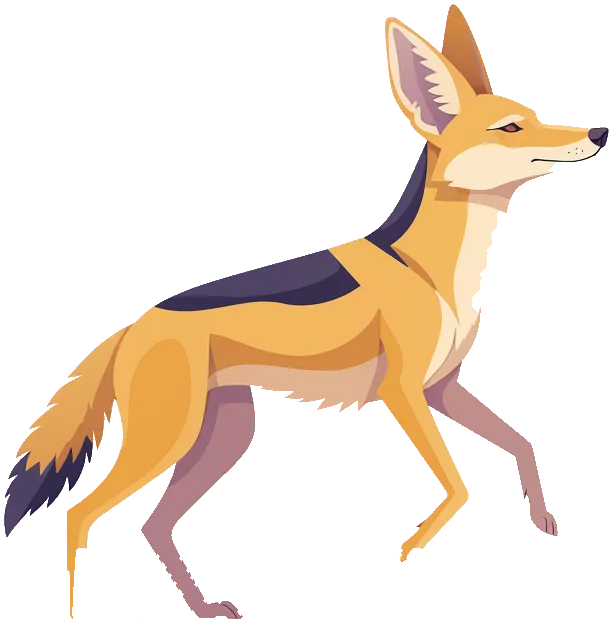
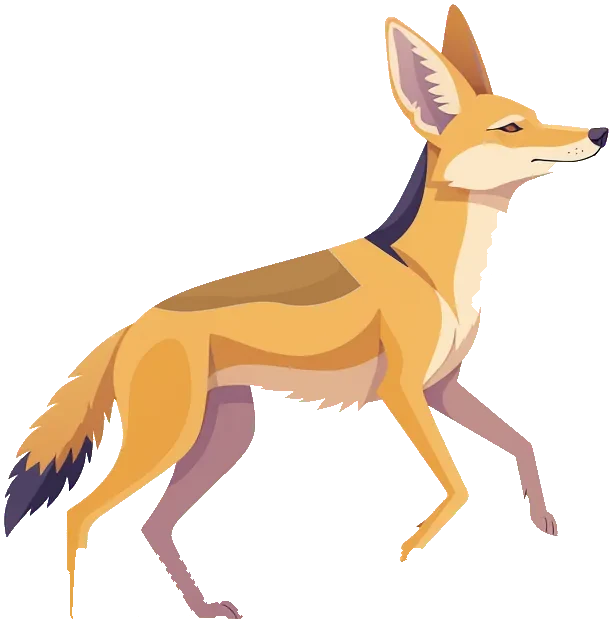
Journey: golden jackals, as in the Holy Land, instead of black-backed

Changed region(s): [[0.248, 0.3965, 0.5889, 0.5185]]

diff --git a/src/journey/canine-rig.js b/src/journey/canine-rig.js
@@ -1,3 +1,3 @@
 // The jackal and the wolf rigged for running (made by docs/firefly/rig-canines.py from their trotting pictures):
 // a body and four legs (0 near hind, 1 far hind, 2 near front, 3 far front), each turning at the hip and the knee.
-var JOURNEY_CANINE_RIG = {"jackal": {"w": 613, "h": 623, "cut": 405, "legs": [{"hip": [161.64638346727898, 405.0], "knee": [92.01374570446735, 507.0], "foot": 618, "front": false, "far": false}, {"hip": [229.60040983606558, 405.0], "knee": [172.80578512396696, 507.0], "foot": 618, "front": false, "far": true}, {"hip": [409.1625615763547, 405.0], "knee": [449.54545454545456, 479.0], "foot": 561, "front": true, "far": false}, {"hip": [462.74585635359114, 405.0], "knee": [527.0, 467.0], "foot": 535, "front": true, "far": true}]}, "wolf": {"w": 601, "h": 632, "cut": 405, "legs": [{"hip": [135.69788918205805, 405.0], "knee": [105.44516129032257, 475.0], "foot": 551, "front": false, "far": false}, {"hip": [200.0491493383743, 405.0], "knee": [142.27004219409284, 505.0], "foot": 614, "front": false, "far": true}, {"hip": [340.3042505592841, 405.0], "knee": [339.780487804878, 511.0], "foot": 627, "front": true, "far": false}, {"hip": [418.86511627906975, 405.0], "knee": [508.5744680851064, 482.0], "foot": 567, "front": true, "far": true}]}};
+var JOURNEY_CANINE_RIG = {"jackal": {"w": 613, "h": 623, "cut": 405, "legs": [{"hip": [161.69610091743118, 405.0], "knee": [92.01374570446735, 507.0], "foot": 618, "front": false, "far": false}, {"hip": [229.65092402464066, 405.0], "knee": [173.0326530612245, 507.0], "foot": 618, "front": false, "far": true}, {"hip": [409.1625615763547, 405.0], "knee": [449.54545454545456, 479.0], "foot": 561, "front": true, "far": false}, {"hip": [462.74585635359114, 405.0], "knee": [527.2109375, 467.0], "foot": 535, "front": true, "far": true}]}, "wolf": {"w": 601, "h": 632, "cut": 405, "legs": [{"hip": [135.69788918205805, 405.0], "knee": [105.44516129032257, 475.0], "foot": 551, "front": false, "far": false}, {"hip": [200.0491493383743, 405.0], "knee": [142.27004219409284, 505.0], "foot": 614, "front": false, "far": true}, {"hip": [340.3042505592841, 405.0], "knee": [339.780487804878, 511.0], "foot": 627, "front": true, "far": false}, {"hip": [418.86511627906975, 405.0], "knee": [508.5744680851064, 482.0], "foot": 567, "front": true, "far": true}]}};

diff --git a/src/journey/index.html b/src/journey/index.html
@@ -460,16 +460,16 @@ dialog.journal[open] {animation:j-rise .55s cubic-bezier(.2,.9,.3,1.2);}
 	</footer>
 
 	<script src="/assets/js/site.js" defer></script>
-	<script src="/journey/camels.js?v=202610251906" defer></script>
-	<script src="/journey/camel-rig.js?v=202610251906" defer></script>
-	<script src="/journey/canine-rig.js?v=202610251906" defer></script>
-	<script src="/journey/art-ready.js?v=202610251906" defer></script>
-	<script src="/journey/readings.js?v=202610251906" defer></script>
-	<script src="/journey/pip.js?v=202610251906" defer></script>
-	<script src="/journey/sayings.js?v=202610251906" defer></script>
-	<script src="/journey/plan.js?v=202610251906" defer></script>
-	<script src="/journey/audio-ready.js?v=202610251906" defer></script>
-	<script src="/journey/sound.js?v=202610251906" defer></script>
-	<script src="/journey/journey.js?v=202610251906" defer></script>
+	<script src="/journey/camels.js?v=202610252217" defer></script>
+	<script src="/journey/camel-rig.js?v=202610252217" defer></script>
+	<script src="/journey/canine-rig.js?v=202610252217" defer></script>
+	<script src="/journey/art-ready.js?v=202610252217" defer></script>
+	<script src="/journey/readings.js?v=202610252217" defer></script>
+	<script src="/journey/pip.js?v=202610252217" defer></script>
+	<script src="/journey/sayings.js?v=202610252217" defer></script>
+	<script src="/journey/plan.js?v=202610252217" defer></script>
+	<script src="/journey/audio-ready.js?v=202610252217" defer></script>
+	<script src="/journey/sound.js?v=202610252217" defer></script>
+	<script src="/journey/journey.js?v=202610252217" defer></script>
 </body>
 </html>
